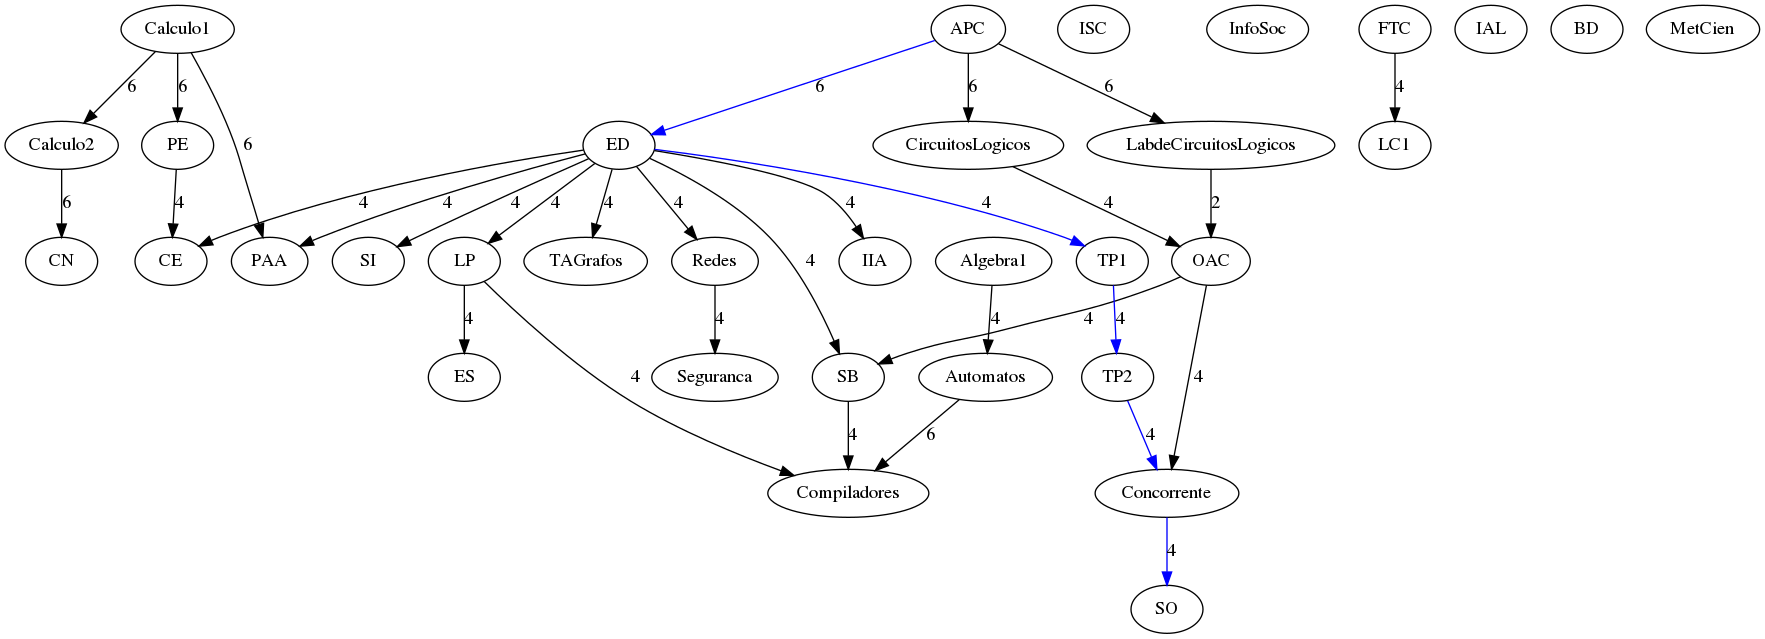
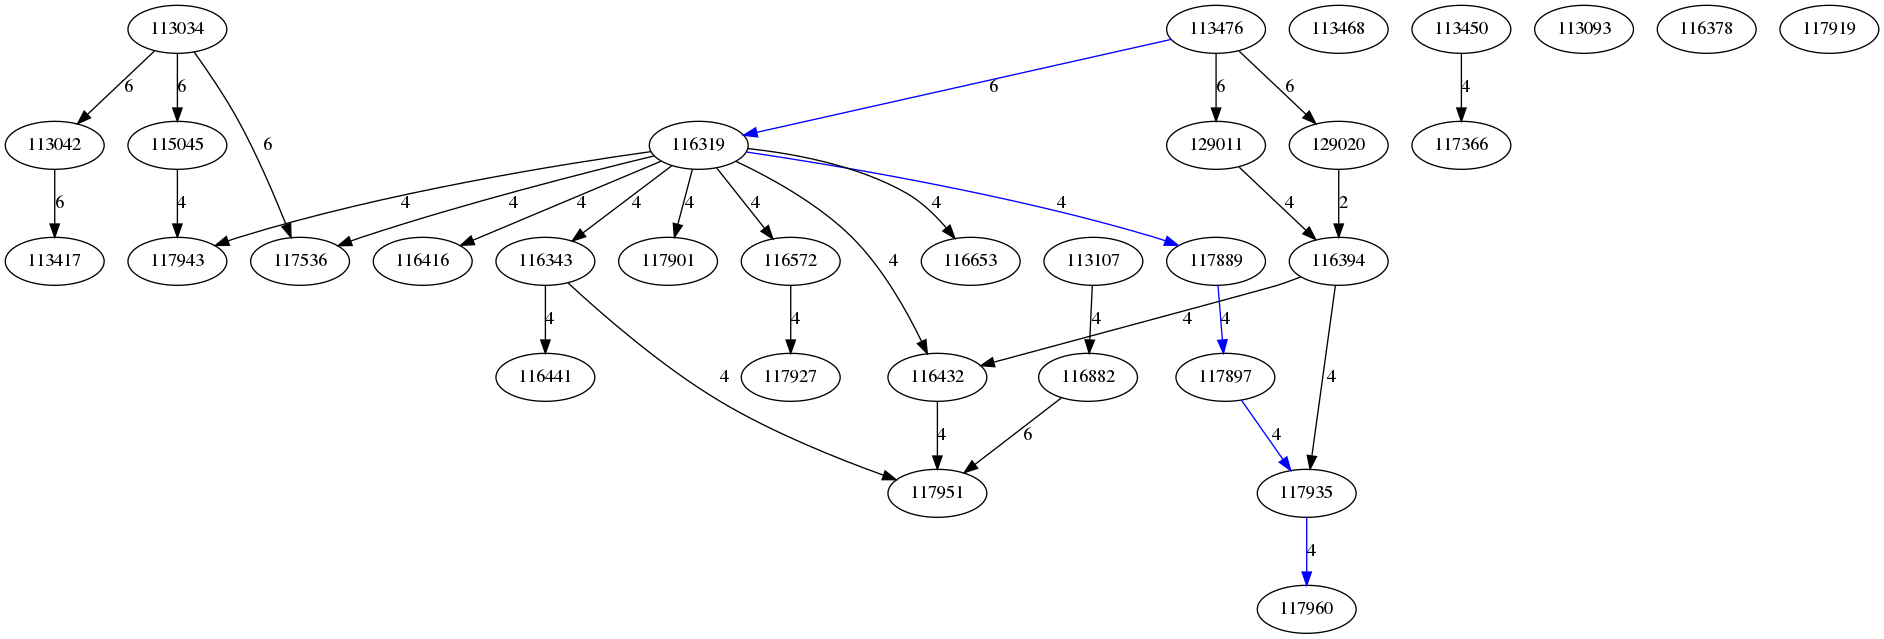
Ready to ship!

diff --git a/src/cic_paths.cpp b/src/cic_paths.cpp
@@ -2,6 +2,89 @@
 
 int main(void) {
   // Sets to true if want graph with the name of the classes
+  std::cout << "Ciência da Computaçao" << std::endl;
+  if (true) {
+      // Creates a Digraph of mandatory UnB CiC Classes
+      LinkedGraph<std::string> cic_curriculum = LinkedGraph<std::string>();
+
+      // Adding Vertices
+      cic_curriculum.insertVertex("Calculo1", 6);
+      cic_curriculum.insertVertex("ISC", 4);
+      cic_curriculum.insertVertex("APC", 6);
+      cic_curriculum.insertVertex("InfoSoc", 2);
+      cic_curriculum.insertVertex("FTC", 4);
+      cic_curriculum.insertVertex("CircuitosLogicos", 4);
+      cic_curriculum.insertVertex("LabdeCircuitosLogicos", 2);
+      cic_curriculum.insertVertex("Calculo2", 6);
+      cic_curriculum.insertVertex("IAL", 4);
+      cic_curriculum.insertVertex("ED", 4);
+      cic_curriculum.insertVertex("OAC", 4);
+      cic_curriculum.insertVertex("TP1", 4);
+      cic_curriculum.insertVertex("Algebra1", 4);
+      cic_curriculum.insertVertex("CN", 4);
+      cic_curriculum.insertVertex("PE", 4);
+      cic_curriculum.insertVertex("LC1", 4);
+      cic_curriculum.insertVertex("TP2", 4);
+      cic_curriculum.insertVertex("TAGrafos", 4);
+      cic_curriculum.insertVertex("Redes", 4);
+      cic_curriculum.insertVertex("LP", 4);
+      cic_curriculum.insertVertex("Concorrente", 4);
+      cic_curriculum.insertVertex("ES", 4);
+      cic_curriculum.insertVertex("BD", 4);
+      cic_curriculum.insertVertex("IIA", 4);
+      cic_curriculum.insertVertex("SB", 4);
+      cic_curriculum.insertVertex("SO", 6);
+      cic_curriculum.insertVertex("Automatos", 4);
+      cic_curriculum.insertVertex("SI", 4);
+      cic_curriculum.insertVertex("CE", 4);
+      cic_curriculum.insertVertex("PAA", 4);
+      cic_curriculum.insertVertex("Compiladores", 4);
+      cic_curriculum.insertVertex("Seguranca", 4);
+      cic_curriculum.insertVertex("MetCien", 4);
+      std::cout << "The CIC Curriculum Graph has " << cic_curriculum.num_vertices() << " Vertices\n";
+
+      // Adding Edges (Directed weightned)
+      cic_curriculum.insertConnection("APC", "CircuitosLogicos", 6);
+      cic_curriculum.insertConnection("APC", "LabdeCircuitosLogicos", 6);
+      cic_curriculum.insertConnection("APC", "ED", 6);
+      cic_curriculum.insertConnection("Calculo1", "Calculo2", 6);
+      cic_curriculum.insertConnection("CircuitosLogicos", "OAC", 4);
+      cic_curriculum.insertConnection("LabdeCircuitosLogicos", "OAC", 2);
+      cic_curriculum.insertConnection("ED", "TP1", 4);
+      cic_curriculum.insertConnection("Calculo2", "CN", 6);
+      cic_curriculum.insertConnection("Calculo1", "PE", 6);
+      cic_curriculum.insertConnection("FTC", "LC1", 4);
+      cic_curriculum.insertConnection("TP1", "TP2", 4);
+      cic_curriculum.insertConnection("ED", "TAGrafos", 4);
+      cic_curriculum.insertConnection("ED", "Redes", 4);
+      cic_curriculum.insertConnection("ED", "LP", 4);
+      cic_curriculum.insertConnection("OAC", "Concorrente", 4);
+      cic_curriculum.insertConnection("TP2", "Concorrente", 4);
+      cic_curriculum.insertConnection("LP", "ES", 4);
+      cic_curriculum.insertConnection("ED", "IIA", 4);
+      cic_curriculum.insertConnection("OAC", "SB", 4);
+      cic_curriculum.insertConnection("ED", "SB", 4);
+      cic_curriculum.insertConnection("Concorrente", "SO", 4);
+      cic_curriculum.insertConnection("Algebra1", "Automatos", 4);
+      cic_curriculum.insertConnection("ED", "SI", 4);
+      cic_curriculum.insertConnection("PE", "CE", 4);
+      cic_curriculum.insertConnection("ED", "CE", 4);
+      cic_curriculum.insertConnection("Calculo1", "PAA", 6);
+      cic_curriculum.insertConnection("ED", "PAA", 4);
+      cic_curriculum.insertConnection("LP", "Compiladores", 4);
+      cic_curriculum.insertConnection("SB", "Compiladores", 4);
+      cic_curriculum.insertConnection("Automatos", "Compiladores", 6);
+      cic_curriculum.insertConnection("Redes", "Seguranca", 4);
+
+      std::cout << "The CIC Curriculum Graph has " << cic_curriculum.num_edges() << " Edges\n";
+      cic_curriculum.print();
+      cic_curriculum.printTopologicalOrder("CIC_TopologicalOrder", "CIC_TopologicalOrder.dot");
+      cic_curriculum.writeDigraphAsDot("CIC_Curriculum", "all_cic_curriculum.dot");
+      cic_curriculum.CriticalPath(5);
+  }
+
+
+  // Sets to true if want graph with the classes codes
   if (true) {
       // Creates a Digraph of mandatory UnB CiC Classes
       LinkedGraph<std::string> cic_curriculum = LinkedGraph<std::string>();

diff --git a/include/LinkedGraph.hpp b/include/LinkedGraph.hpp
@@ -573,6 +573,8 @@ void findConnected() {
                       << allVertex.at(src).get_id()
                       << " to " << allVertex.at(dest).get_id()
                       << " | Total cost: " << long_path.cost
+                      << " + Vertex cost " << allVertex.at(dest).weight
+                      << " = " << allVertex.at(dest).weight + long_path.cost
                       << std::endl;
             std::cout << "      Total Path in topological order: " << std::endl;
             for (int indx = 0; indx < full_path.size(); ++indx) {
@@ -620,6 +622,8 @@ void findConnected() {
         std::cout << allVertex.at(src).get_id()
                   << " to " << allVertex.at(dest).get_id()
                   << " | Total cost: " << long_path.cost
+                  << " + Vertex cost " << allVertex.at(dest).weight
+                  << " = " << allVertex.at(dest).weight + long_path.cost
                   << std::endl;
         std::cout << "      Total Path in topological order: " << std::endl;
         std::vector<Edge> second_path_edges;

diff --git a/README.md b/README.md
@@ -17,7 +17,7 @@ $ make clean
 $ make
 
 Para executar o programa:
-$ ./bin/clique
+$ ./bin/cic_paths
 
 Diretórios:
 bin : arquivo executável do tradutor
@@ -33,11 +33,31 @@ Para compilar sem utilizar o Makefile, realizar (considerando que
 $ mkdir build
 $ mkdir bin
 $ g++ -std=c++11 --pedantic -O3 -I include -c -o build/helper.o src/helper.cpp
-$ g++ -std=c++11 --pedantic -O3 -I include -c -o build/clique.o src/clique.cpp
+$ g++ -std=c++11 --pedantic -O3 -I include -c -o build/cic_paths.o src/cic_paths.cpp
 $ g++ -std=c++11 --pedantic -O3 -I include -c -o build/Graph.o src/Graph.cpp
-$ g++ build/helper.o build/clique.o build/Graph.o -o bin/clique -lm
+$ g++ build/helper.o build/cic_paths.o build/Graph.o -o bin/cic_paths -lm
 
 ---
 
-O arquivo principal é o clique.cpp  -> nesse arquivo está a leitura do arquivo soc-dolphins.mtx
-Quando executado o programa imprime na tela os vértices e seus graus, os cliques maximais, além do coeficiente de aglorameração de cada vértice e o coeficiente médio do grafo.
+O arquivo principal é o cic_paths.cpp  -> nesse arquivo está a montagem do grafo, com as matérias como vértices e os pré-requisitos como arestas, assim como chama as principais funções para cálculo da ordem topológica e a busca pelos dois caminhos críticos.
+
+A partir da execução do programa são gerados arquivos .dot para visualização pelo graphviz (http://www.graphviz.org/). São gerados dois arquivos, um com as matérias sendo reconhecidas pelos códigos (all_cic_curriculum_codes.dot) e outra pelos nomes (all_cic_curriculum.dot). Para gerar os arquivos com as imagens, é necessária a instalação do graphviz. No ubuntu, pode ser realizado com o seguinte comando no terminal:
+$ sudo apt-get install graphviz
+Em seguida, realiza os comandos:
+$ dot -Tpng all_cic_curriculum_codes.dot -o all_cic_curriculum_codes.png
+$  dot -Tpng all_cic_curriculum_codes.dot -o all_cic_curriculum_codes.png
+Para visualização dos arquivos (os arquivos .png serão enviados junto com o programa para evitar a necessiadade de instalar o graphviz):
+$ display all_cic_curriculum.png
+$ display all_cic_curriculum_codes.png
+
+A ordenação topológica, além de ser uma saída em tela do programa, também pode ser vista em versão extendida, por meio de:
+$ dot -Tpng CIC_TopologicalOrder.dot -o CIC_TopologicalOrder.png
+$ display CIC_TopologicalOrder.png
+
+Além da sequência mais longa, são apresentadas a segunda sequência mais longa de duas formas: a segunda sequência mais longa com vértices (matérias) presentes na sequência mais longa e a sequência mais longa em que todos os vértices não estão presentes na primeira. O valor total e o valor das arestas no caminho são apresentados na tela, assim como os vértices em sequência topolǵica desses caminhos.
+A sequência mais longo é mostrado em azul (first_critical_path.png):
+$ dot -Tpng first_critical_path.dot  -o first_critical_path.png
+$ display first_critical_path.png
+A segunda sequência sem vértices repetidos é apresentada em verde.
+$ dot -Tpng second_critical_path.dot  -o second_critical_path.png
+$ display second_critical_path.png
